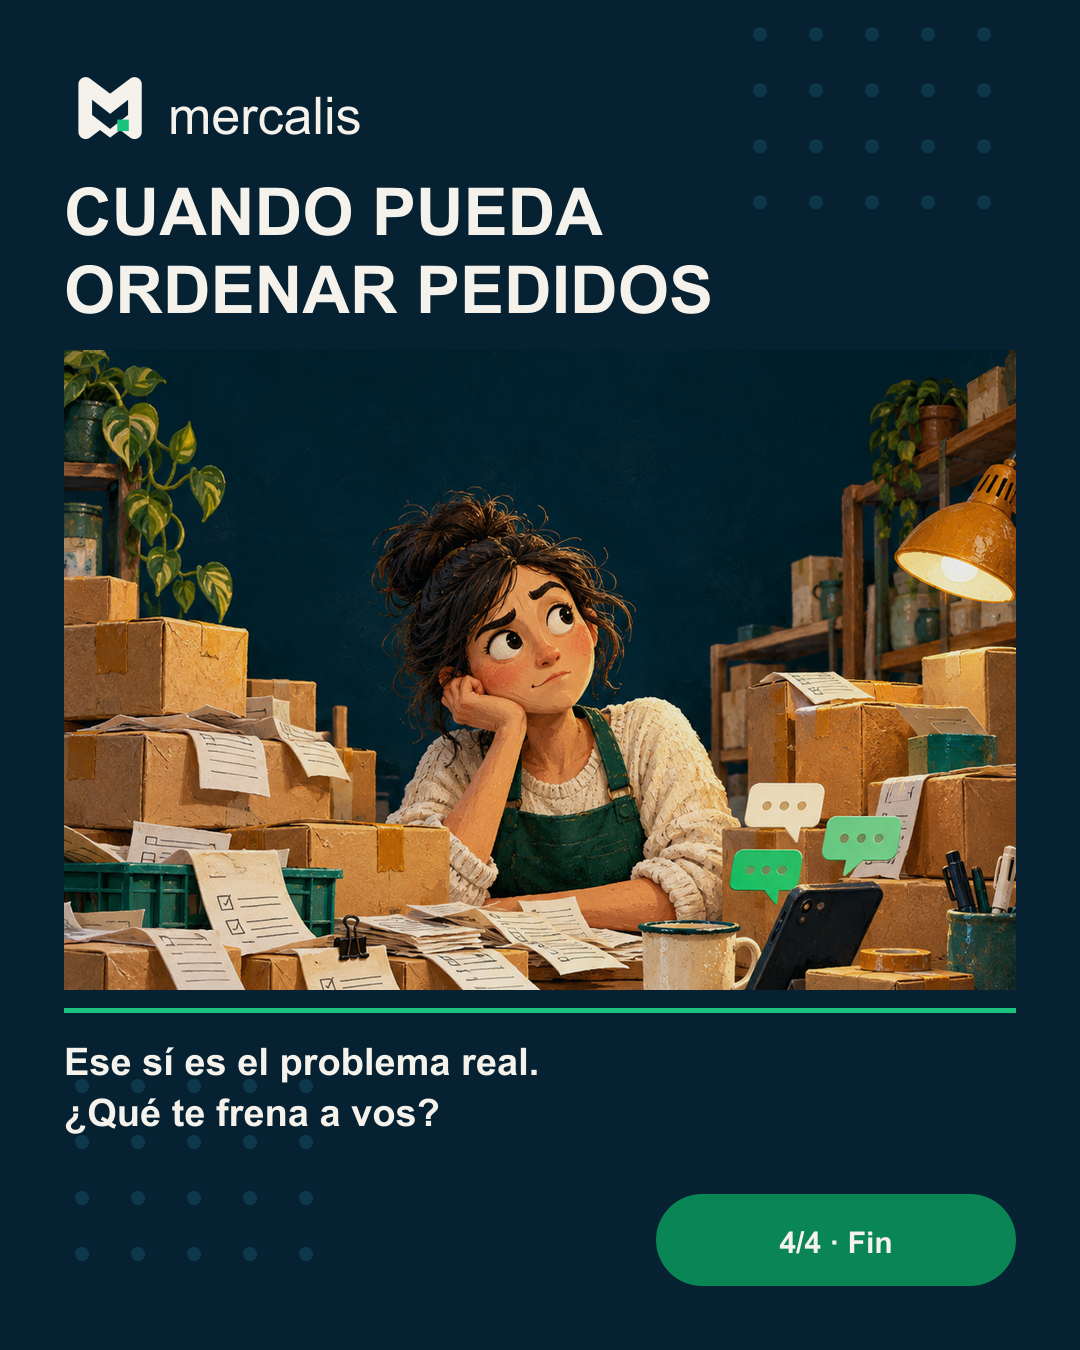
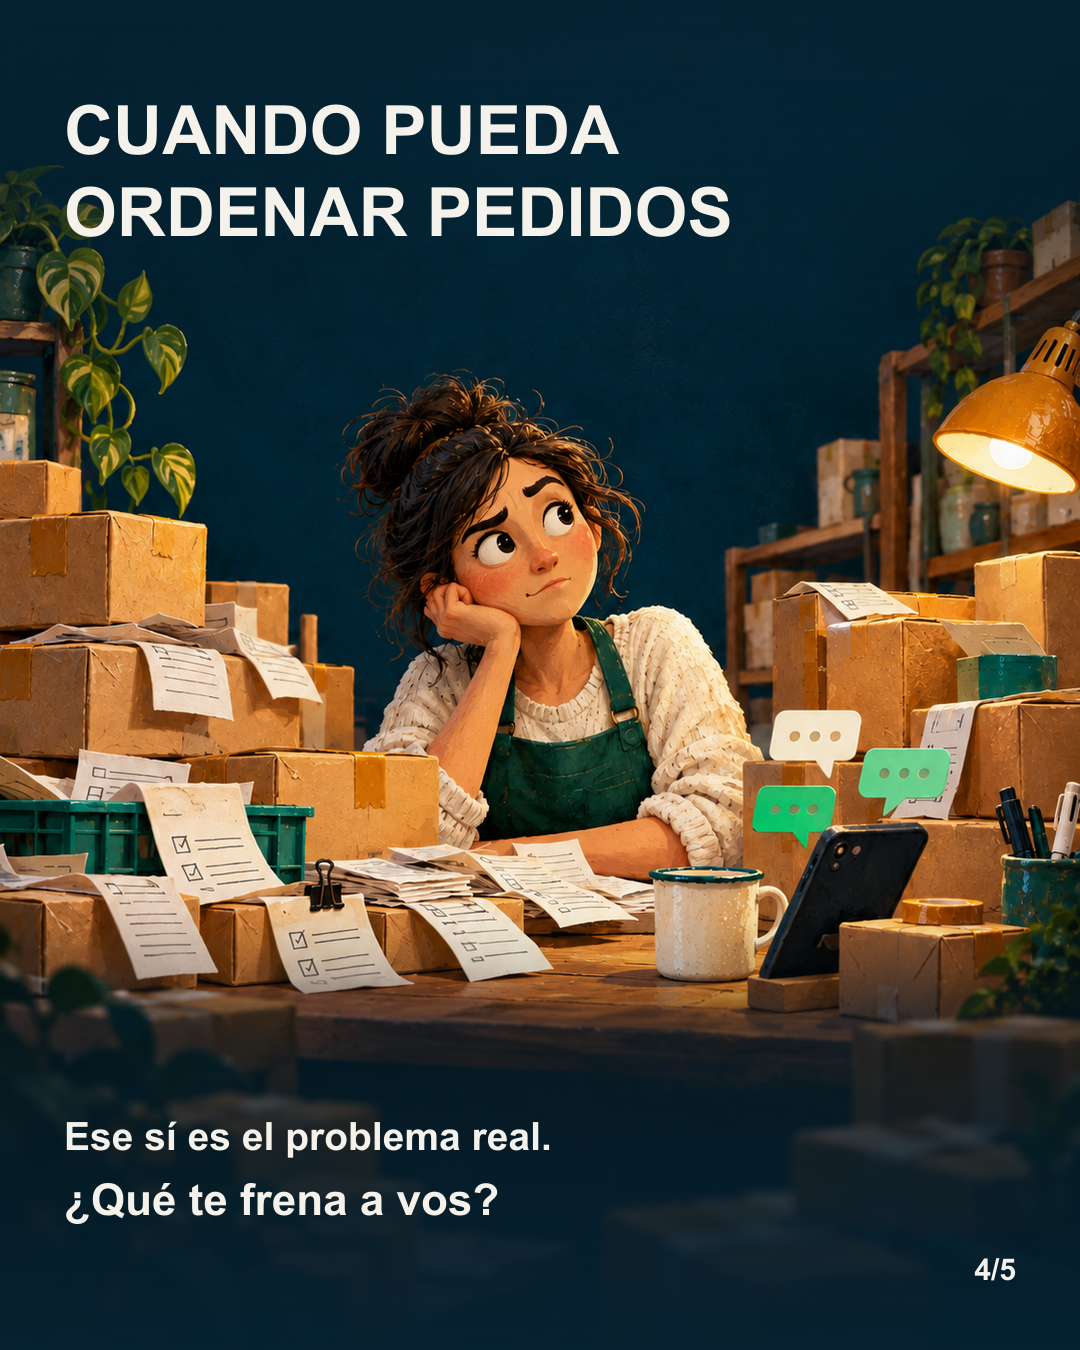
Use full-bleed museum carousel in calendar

diff --git a/index.html b/index.html
@@ -32,7 +32,7 @@ const days = [
 {n:1,date:'Lun 26/10',format:'Reel',goal:'Pieza publicada',status:'Publicado hoy',title:'Cyber Monday: que no se multipliquen los errores',brief:'Reel ya publicado según Sebastian. Tráiler de terror de 22,5 s: pedidos que se multiplican, armado a ciegas, cajas selladas y caos final. No producir ni publicar otra vez.',media:'assets/reel-cyber-monday-despacho.mp4',shot:'Montaje final existente. No hay narración: música, sonidos de empaque y placas. El archivo del repositorio describe la pieza como lista para revisión; el estado de publicación de hoy viene de Sebastian.',screen:'Rótulos del video final: «Este Cyber Monday» → «Se multiplican los pedidos» → «Que no se multipliquen los errores» → Mercalis.',action:'Registrar URL del post, hora real, alcance a no seguidores, compartidos, visitas al perfil, clics /ig y consultas. No inferir resultados todavía. Guardar captura de Insights a 24 y 72 h. No impulsar este Reel después de que pase la fecha comercial sólo para aumentar el contador.',stories:'1) Repost del Reel publicado con texto: “Cuando los pedidos se multiplican, también puede multiplicarse el caos”.\n2) Encuesta: “¿Qué te preocupa más en Cyber Monday?” Stock / Preparar mal un pedido.\n3) Si alguien pregunta por Mercalis, responder con el enlace /ig.',metric:'Alcance a no seguidores, compartidos, visitas al perfil, registros y leads pertinentes atribuidos.'},
 {n:2,date:'Mar 27/10',format:'Operación',goal:'Dejar correr Cyber Monday',title:'Stories y primeras señales del Reel',brief:'Sin post de feed. Usar el día para responder conversaciones y leer las primeras 24 horas del Reel de Cyber Monday.',action:'Guardar enlace y captura de Insights del Reel publicado: alcance a no seguidores, compartidos, visitas al perfil y consultas. Responder comentarios relevantes. Mantener Excel listo para el miércoles; no publicar otra pieza de feed hoy.',stories:'1) Repost de Cyber Monday con pregunta: “¿Qué se rompe primero cuando entran muchos pedidos?” Stock / Preparación.\n2) Selfie breve: “Mañana estrenamos otra historia de terror de los comercios: el Excel.”',metric:'Primeras 24 horas de Cyber Monday; respuestas de comerciantes.'},
 {n:3,date:'Mié 28/10',format:'Reel',goal:'Pieza lista · publicación',status:'Listo para publicar',title:'Dejá de rezarle al Excel',brief:'Usar el video final ya producido (24 s). La historia muestra una consulta de stock, la peregrinación al altar de Excel, una fórmula #¡REF! y el cierre de Mercalis. No rehacer el guion.',media:'assets/reel-rezarle-al-excel.mp4',shot:'Pieza animada con IA, música de tráiler y voz en off ya renderizada. Revisar el MP4 final y su caption antes de programarlo.',screen:'Rótulos del montaje: «¿Queda stock?» → «Una sola esperanza» → «Le rezaban al Excel» → «No hubo milagro» → «#¡REF!» → «Dejá de rezarle al Excel. Tu stock necesita algo mejor.»',caption:'¿A quién le rezan cuando alguien pregunta cuánto stock queda? Si el dato vive en una planilla que sólo una persona entiende, contanos qué pasa cuando falla. Música: “Cinema Blockbuster Trailer 3”, Sascha Ende, CC BY 4.0 (fragmento adaptado).',action:'Publicar el MP4 existente una vez, luego guardar URL y medir. Conservar en el caption la atribución de música CC BY 4.0 indicada en el README de la pieza. No promocionar hasta comprobar la elegibilidad publicitaria del audio.',stories:'1) Antes de publicar: imagen del altar con encuesta “¿Tu stock depende de Excel?” Sí / No.\n2) Después: compartir el Reel con texto “No hubo milagro”.\n3) Sticker /ig sólo si hay consultas sobre una alternativa.',metric:'Compartidos, visitas al perfil, comentarios de comerciantes, clics /ig y leads pertinentes.'},
-{n:4,date:'Jue 29/10',format:'Carrusel IA',goal:'Compartidos',title:'Museo de las excusas para no vender online',brief:'Cuatro láminas de museo ficticio. Humor dirigido al bloqueo de empezar, no a la persona.',slides:['Portada: «Museo de las excusas para no vender online»; IA: vitrina de museo con celular, caja y cartel “En restauración”.','«Cuando tenga tiempo» · Una agenda con todas las hojas llenas y pedidos de WhatsApp saliendo por los costados.','«Cuando tenga todo perfecto» · Una tienda física impecable con cartel “Próximamente desde 2019”.','«Cuando pueda ordenar los pedidos» · Cierre: «Ese sí es el problema real. ¿Qué te frena a vos?»'],imagePrompt:'Ilustración editorial satírica, comercio argentino de productos físicos, objetos cotidianos, sin logos ni texto generado, paleta petróleo y verde, composición vertical 4:5, espacio libre para añadir títulos después.',caption:'Algunas excusas son chiste; la falta de tiempo para ordenar pedidos es real. ¿Cuál escuchás más? Etiquetá al socio que dice “el mes que viene”.',cta:'Comentarios de objeciones para próximos Reels.',stories:'1) Compartir lámina 2 y encuesta: “¿Cuál usaste?” Tiempo / Perfección.\n2) Caja: “¿Qué te frenaría a vos para empezar?”',metric:'Compartidos y guardados; respuestas con objeciones reales.'},
+{n:4,date:'Jue 29/10',format:'Carrusel IA',goal:'Compartidos',title:'Museo de las excusas para no vender online',brief:'Cinco láminas de museo ficticio: portada enmarcada, tres escenas a sangre y cierre de marca. Humor dirigido al bloqueo de empezar, no a la persona.',slides:['Portada: «Museo de las excusas para no vender online»; IA: vitrina de museo con celular, caja y cartel “En restauración”.','«Cuando tenga tiempo» · Una agenda con todas las hojas llenas y pedidos de WhatsApp saliendo por los costados.','«Cuando tenga todo perfecto» · Una tienda física impecable con cartel “Próximamente desde 2019”.','«Cuando pueda ordenar los pedidos» · «Ese sí es el problema real. ¿Qué te frena a vos?»','Cierre de marca: «¿Tu negocio también tiene una excusa en el museo?» · «Contala en comentarios. Si querés ordenar lo que vendés, mirá el enlace del perfil.»'],imagePrompt:'Ilustración editorial satírica, comercio argentino de productos físicos, objetos cotidianos, sin logos ni texto generado, paleta petróleo y verde, composición vertical 4:5, espacio libre para añadir títulos después.',caption:'Algunas excusas son chiste; la falta de tiempo para ordenar pedidos es real. ¿Cuál escuchás más? Etiquetá al socio que dice “el mes que viene”.',cta:'Comentarios de objeciones para próximos Reels.',stories:'1) Compartir lámina 2 y encuesta: “¿Cuál usaste?” Tiempo / Perfección.\n2) Caja: “¿Qué te frenaría a vos para empezar?”',metric:'Compartidos y guardados; respuestas con objeciones reales.'},
 {n:5,date:'Vie 30/10',format:'Reel',goal:'Lead',title:'La venta que entra por cuatro lugares',brief:'Primer puente explícito de humor a producto, con captura de producto validada.',shot:'Abrí a cámara con cuatro notificaciones ficticias dibujadas. Corte a 5 segundos de demo real con datos de prueba; volver a cámara.',script:'El negocio creció. Felicitaciones. Ahora un pedido entra por el local, otro por WhatsApp, otro por Mercado Libre y otro por Tiendanube.\nSi para saber qué queda tenés que abrir cuatro lugares y rezar, el problema ya cambió de tamaño.\nEsto es lo que buscamos ordenar en Mercalis: ventas, stock, factura y preparación en un mismo flujo.\nSi te está pasando, mirá la demo desde el perfil y contame por dónde te entran hoy los pedidos.',screen:'Inicio: «Cuatro canales. Una sola cabeza.» Demo: rótulo «Pantalla de producto · datos de prueba».',caption:'¿Vendés por más de un canal? El enlace del perfil muestra qué hace Mercalis. Plan gratis: hasta 100 ventas por mes, sin tarjeta y sin límite de tiempo.',cta:'Enlace /ig a producto o registro; medir alta/consulta.',stories:'1) Encuesta: “¿Por cuántos lugares te entran pedidos?” 1 / 2 o más.\n2) Video de la pantalla demo con sticker de enlace /ig y texto “Mirá el recorrido”.',metric:'Clics /ig, registros y leads pertinentes; visitas al perfil.'},
 {n:6,date:'Sáb 31/10',format:'Imagen IA',goal:'Compartidos',title:'La Santa Planilla del Negocio',brief:'Póster satírico, una imagen única. Sin simular interfaz ni testimonio.',imagePrompt:'Ilustración editorial ficticia: una planilla de cálculo gigante sobre un altar improvisado en un pequeño depósito argentino; cajas alrededor, luz teatral, humor seco, sin marcas, sin texto, vertical 4:5. Añadir texto manualmente.',overlay:'«Protege al negocio. Hasta que alguien toca la celda equivocada.»',caption:'La planilla estuvo cuando nadie más estuvo. Pero si una celda equivocada te cambia el stock, merece jubilarse con honores. Mandáselo al custodio de la planilla.',cta:'Compartir con socio/equipo.',stories:'1) Mostrar imagen y encuesta: “¿La planilla es la fuente de verdad?” Sí / Más o menos.\n2) Respuesta breve a la opción mayoritaria.',metric:'Compartidos por alcance; visitas al perfil.'},
 {n:7,date:'Dom 1/11',format:'Operación',goal:'Aprendizaje',title:'Revisión de semana 1',brief:'Sin feed nuevo. Leer Insights y elegir los dos arquetipos que atrajeron comercios, no sólo risa.',action:'Registrar: seguidores netos, alcance no seguidores, visitas al perfil, clics /ig, registros, leads pertinentes y mejores frases en comentarios. Comparar el Reel de Cyber Monday y el de Excel por visitas al perfil y preguntas comerciales, sin comparar sus vistas como si tuvieran la misma intención. Registrar los enlaces publicados y no duplicar ninguna pieza. Documentar el criterio.',stories:'1) Video selfie: “La semana que viene hacemos el personaje que elijan ustedes.”\n2) Encuesta: “¿Cuál te representó más?” Cyber Monday / Excel.',metric:'Punto de control orientativo: ~420 seguidores, sin sacrificar calidad.'},
@@ -64,7 +64,7 @@ const weekOneImages={
 1:[['stories/dia-01-encuesta-cyber.png','Story · encuesta de Cyber Monday']],
 2:[['stories/dia-02-teaser-excel.png','Story · teaser de Excel']],
 3:[['stories/dia-03-encuesta-excel.png','Story · encuesta sobre Excel']],
-4:[['feed/dia-04-carrusel-01-portada.png','Carrusel 1/4 · portada'],['feed/dia-04-carrusel-02-tiempo.png','Carrusel 2/4 · tiempo'],['feed/dia-04-carrusel-03-perfecto.png','Carrusel 3/4 · perfección'],['feed/dia-04-carrusel-04-pedidos.png','Carrusel 4/4 · pedidos'],['stories/dia-04-museo-encuesta.png','Story · encuesta del museo']],
+4:[['feed/dia-04-carrusel-01-portada.png','Carrusel 1/5 · portada'],['feed/dia-04-carrusel-02-tiempo.png','Carrusel 2/5 · tiempo'],['feed/dia-04-carrusel-03-perfecto.png','Carrusel 3/5 · perfección'],['feed/dia-04-carrusel-04-pedidos.png','Carrusel 4/5 · pedidos'],['feed/dia-04-carrusel-05-cierre-mercalis.png','Carrusel 5/5 · cierre Mercalis'],['stories/dia-04-museo-encuesta.png','Story · encuesta del museo']],
 5:[['stories/dia-05-canales-encuesta.png','Story · canales de venta']],
 6:[['feed/dia-06-santa-planilla.png','Feed · La Santa Planilla'],['stories/dia-06-santa-planilla-encuesta.png','Story · encuesta de la planilla']],
 7:[['stories/dia-07-votacion.png','Story · votación semanal']]
